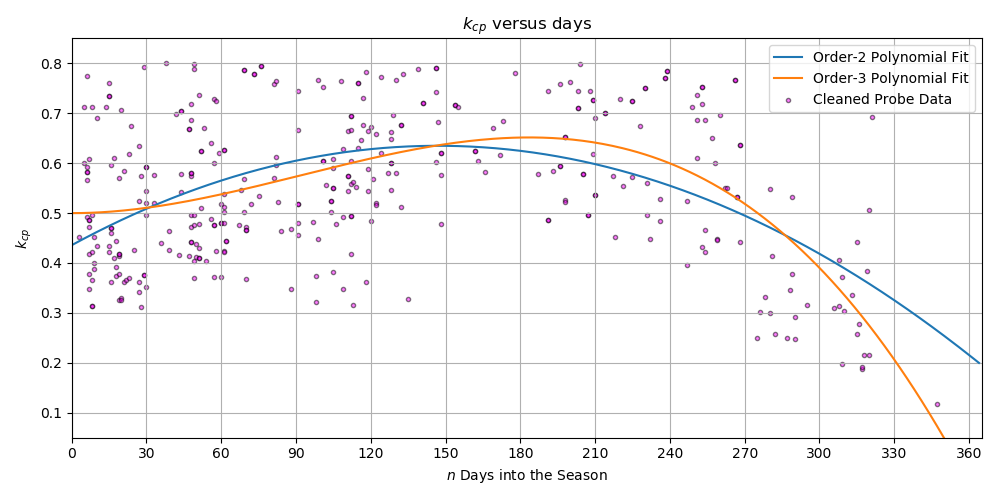
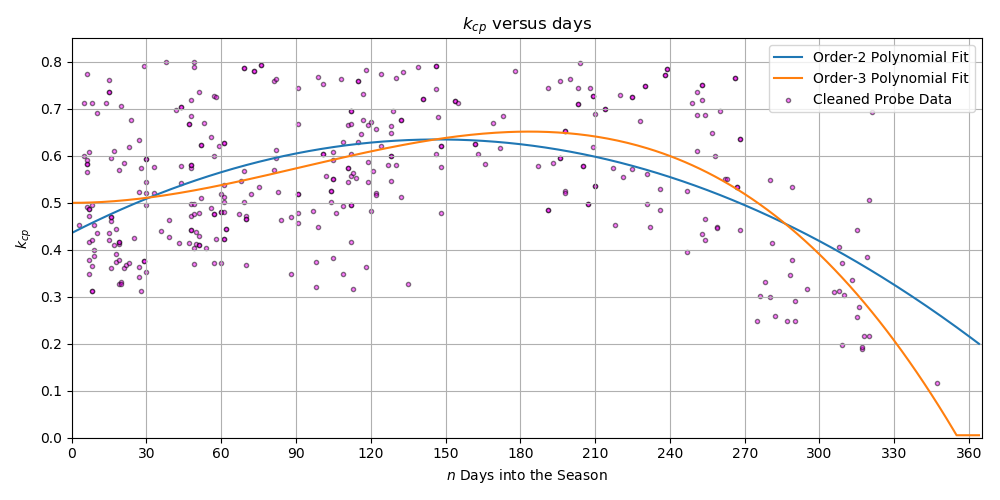
Produce r-squared statistic giving the good of the fit.

diff --git a/DATA/collate_cultivar_data/step_3_get_trends_from_stacked_data.py b/DATA/collate_cultivar_data/step_3_get_trends_from_stacked_data.py
@@ -8,6 +8,38 @@ import pandas as pd
 import calendar
 from cleaning_operations import BEGINNING_MONTH, KCP_MAX
 
+# ----------------------------------------------------------------------------------------------------------------------
+# Declare important constants
+# ----------------------------------------------------------------------------------------------------------------------
+polynomial_orders = [2, 3]
+# ----------------------------------------------------------------------------------------------------------------------
+
+
+# ======================================================================================================================
+# Define a helper function
+# ======================================================================================================================
+def rectify_trend(fitted_trend_values):
+    if all(ii > 0 for ii in fitted_trend_values):
+        return fitted_trend_values
+    else:
+        negative_indices = np.where(fitted_trend_values <= 0)[0]  # identify all the negative indices
+        last_positive_index = negative_indices[0] - 1  # identify the last possible index having a positive value
+        for neg_ind in negative_indices:  # loop over all the negative indices
+            fitted_trend_values[neg_ind] = fitted_trend_values[last_positive_index]  # rectify the trend values
+        return fitted_trend_values
+
+
+def get_r_squared(x_vals, y_vals, degree):
+    coeffs = np.polyfit(x_vals, y_vals, degree)
+    pol = np.poly1d(coeffs)
+    yhat = pol(x_vals)
+    ybar = np.sum(y_vals)/len(y_vals)
+    ssreg = np.sum((yhat - ybar)**2)
+    sstot = np.sum((y - ybar)**2)
+    rsquared = ssreg / sstot
+    return coeffs, rsquared
+# ======================================================================================================================
+
 
 # ++++++++++++++++++++++++++++++++++++++++++++++++++++++++++++++++++++++++++++++++++++++++++++++++++++++++++++++++++++++
 # Import all the necessary data
@@ -75,6 +107,7 @@ np.save("data/kcp_vs_days_data", data_np_array)
 x = np.array(data_np_array[:, 0], dtype=float)
 y = np.array(data_np_array[:, 1], dtype=float)
 
+saved_trend_lines = []
 # Set the plotting meta-data, etc...
 fig, ax = plt.subplots(figsize=(10, 5))
 ax.set_xlabel("$n$ Days into the Season")
@@ -84,20 +117,24 @@ loc = plticker.MultipleLocator(base=30)  # The spacing between the major-gridlin
 ax.xaxis.set_major_locator(loc)
 ax.grid(True)
 ax.set_xlim(left=0, right=365)
-ax.set_ylim(bottom=0.05, top=KCP_MAX + 0.05)
+ax.set_ylim(bottom=0, top=KCP_MAX + 0.05)
 ax.scatter(x, y, c="magenta", marker=".", edgecolors="black", alpha=0.5, label="Cleaned Probe Data")
 
 fit_coeffs = []  # instantiate an empty list that will contain the coefficients of the np.polyfit executions
 linspaced_x = np.arange(start=0, stop=365, step=1)  # linspaced_x = [0, 1, 2, ..., 364].  This represents number of days
+fit_statistics = []
 # Notice that in the following we only consider quadratic and cubic polynomial fits to the data
 # Performing a linear fit (y = mx + c) would be non-sensical
 # From an educated guess, performing polynomial fits above order 3 would result in more oscillations,
 # and we sould also have the risk of OVERFITTING the data
-for highest_order in [2, 3]:
-    z = np.polyfit(x=x, y=y, deg=highest_order)  # z contains the polynomial coefficients, with the highest power first
+for highest_order in polynomial_orders:
+    z, fit_statistic = get_r_squared(x_vals=x, y_vals=y, degree=highest_order)
     fit_coeffs.append(list(z))
-    p = np.poly1d(z)  # It is convenient to use poly1d objects for dealing with polynomials
-    ax.plot(linspaced_x, p(linspaced_x), label="Order-{} Polynomial Fit".format(highest_order))
+    fit_statistics.append(fit_statistic)
+    p = np.poly1d(z)  # It is convenient to use poly1d objects when dealing with polynomials
+    trend_values = rectify_trend(p(linspaced_x))
+    saved_trend_lines.append(trend_values)
+    ax.plot(linspaced_x, trend_values, label="Order-{} Polynomial Fit".format(highest_order))
 ax.legend()
 plt.tight_layout()
 plt.savefig("figures/fit_kcp_versus_days.png")
@@ -117,7 +154,6 @@ datetime_clouded = []  # These correspond to the scatter plot.  There are typica
 for i in x:
     datetime_clouded.append(starting_date + datetime.timedelta(days=float(i)))
 
-trend = np.poly1d(fit_coeffs[0])  # Create a poly1d object with the coefficients of the quadratic polynomial
 fig, ax = plt.subplots(figsize=(10, 5))
 ax.set_xlabel("Date (Month of the Year)")
 ax.set_ylabel("$k_{cp}$")
@@ -127,15 +163,25 @@ ax.set_xlim(left=datetime.datetime(year=starting_year, month=BEGINNING_MONTH, da
             right=datetime.datetime(year=starting_year+1, month=BEGINNING_MONTH - 1,
                                     day=calendar.monthrange(starting_year+1, BEGINNING_MONTH-1)[1]))
 ax.xaxis.set_major_formatter(mdates.DateFormatter('%b/%d'))  # Month/01
-ax.set_ylim(bottom=0.05, top=KCP_MAX + 0.05)
-ax.scatter(datetime_clouded, y, c="magenta", marker=".", edgecolors="black", alpha=0.5, label="Cleaned Probe Data")
-ax.plot(datetime_linspaced, trend(linspaced_x), label="Order-2 Polynomial Fit")
+ax.set_ylim(bottom=0.0, top=KCP_MAX + 0.05)
+for i in range(len(saved_trend_lines)):
+    trend_line = saved_trend_lines[i]
+    ax.scatter(datetime_clouded, y, c="magenta", marker=".", edgecolors="black", alpha=0.5, label="Cleaned Probe Data")
+    ax.plot(datetime_linspaced, trend_line, label="Order-{} Polynomial fit".format(polynomial_orders[i]))
 ax.legend()
 fig.autofmt_xdate()  # rotate and align the tick labels so they look better
 plt.tight_layout()
 plt.savefig("figures/fit_kcp_versus_month.png")
+# ++++++++++++++++++++++++++++++++++++++++++++++++++++++++++++++++++++++++++++++++++++++++++++++++++++++++++++++++++++++
+
+
+# ----------------------------------------------------------------------------------------------------------------------
+# Extract the trend line that generates the greatest r-squared (coefficient of determination)
+# Save the data related to the best-fitting trend line.
+# ----------------------------------------------------------------------------------------------------------------------
+prized_index = np.where(fit_statistics == max(fit_statistics))[0][0]
 
 datetimestamp = np.reshape(datetime_linspaced, newshape=(-1, 1))
-kcp = np.reshape(trend(linspaced_x), newshape=(-1, 1))
+kcp = np.reshape(saved_trend_lines[prized_index], newshape=(-1, 1))
 np.save("data/daily_trend_of_kcp_vs_datetime", np.hstack((datetimestamp, kcp)))
-# ++++++++++++++++++++++++++++++++++++++++++++++++++++++++++++++++++++++++++++++++++++++++++++++++++++++++++++++++++++++
+# ----------------------------------------------------------------------------------------------------------------------
